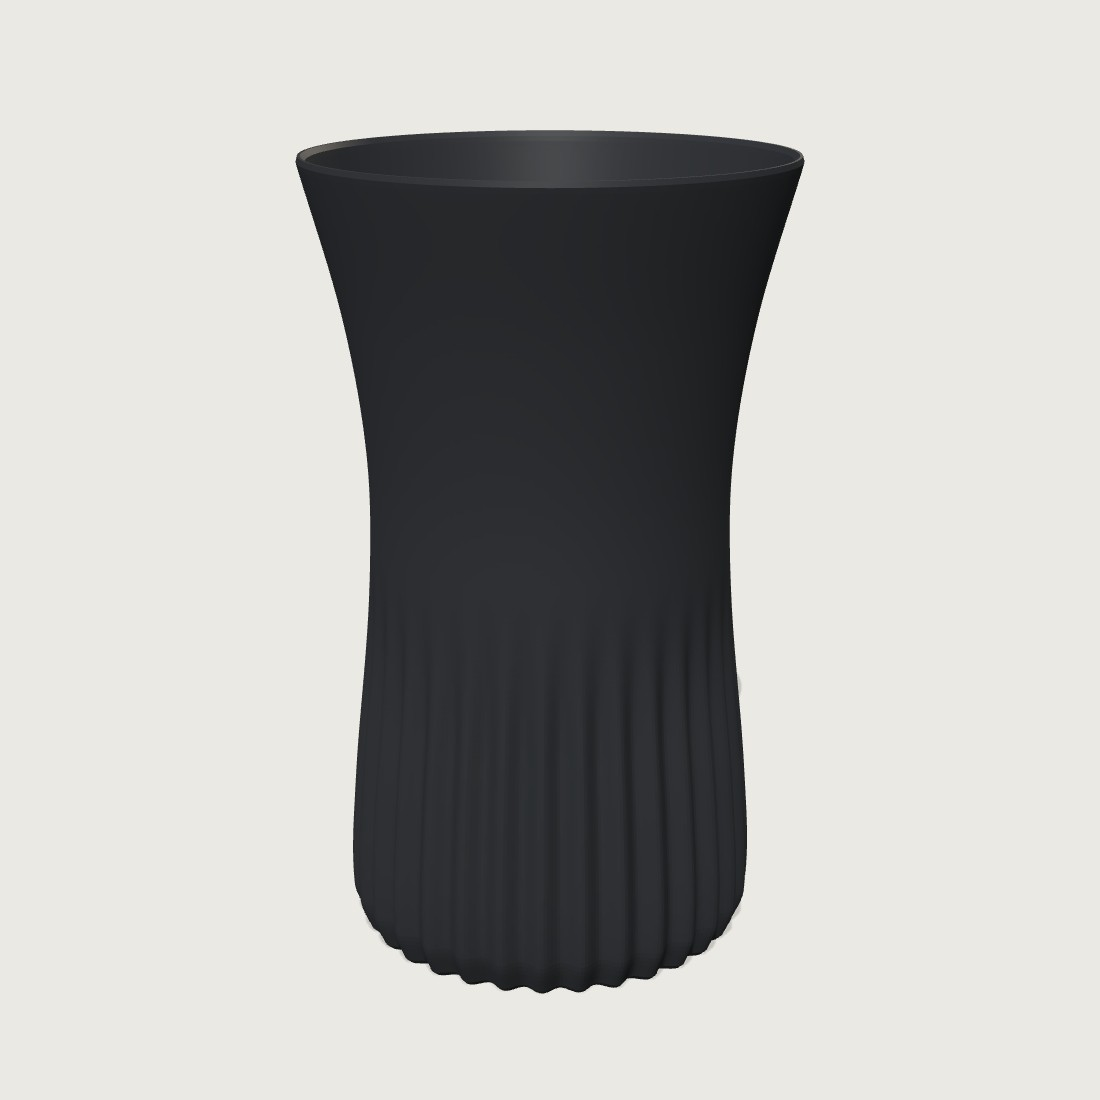
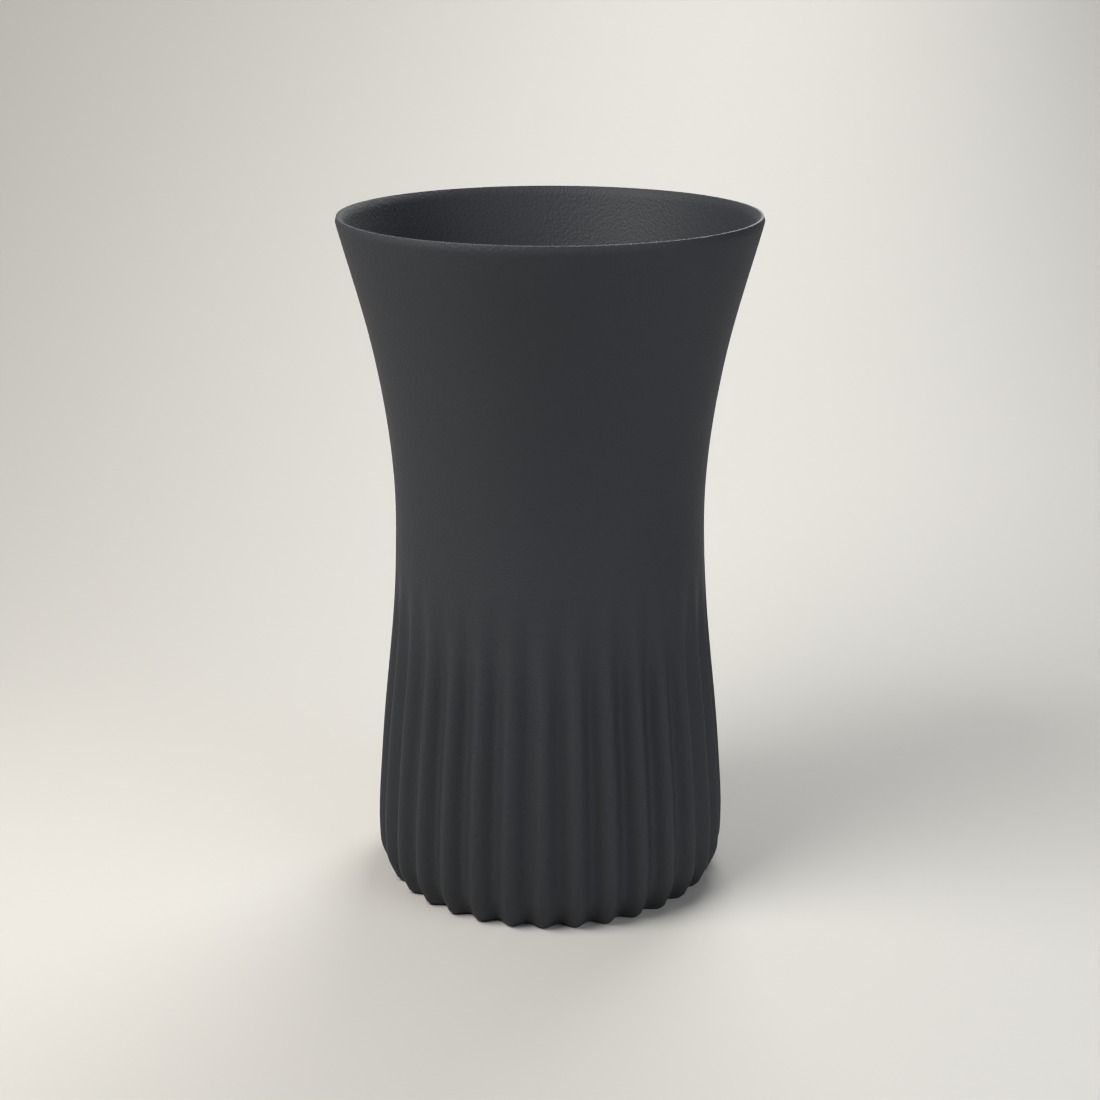
Ürün görselleri: stüdyo kareleri tamam, ortam fotoğrafları sürüyor; animasyon altyapısı
Bütün araçların stüdyo kareleri Blender ile çizildi (litofan lamba hariç).
urun-renderleri.py --animasyon: hazır ayarlar arasında alanlar kare kare
değişir, her kare aynı ev ortamında sabit kamerayla çizilir, <arac>.mp4 olur.
Ürün sayfası: katalogda animasyon işaretli araçta video "Neleri
değiştirebilirsiniz" bölümünde sessiz döngü olarak oynar.

diff --git a/src/app/(shop)/tasarla/[arac]/page.tsx b/src/app/(shop)/tasarla/[arac]/page.tsx
@@ -7,6 +7,7 @@ import {
   aracAdresi,
   aracBul,
   aracGorseli,
+  aracAnimasyonu,
   aracGorselleri,
   aracOzellestirmeAdresi,
 } from "@/lib/tasarim/catalog";
@@ -101,6 +102,7 @@ export default async function TasarimUrunPage({
   const gorseller = aracGorselleri(arac).filter((g) => resolvePublicImage(g.adres));
   const digerleri = TASARIM_ARACLARI.filter((a) => a.id !== arac.id).slice(0, 4);
   const ozellestir = aracOzellestirmeAdresi(arac.id);
+  const animasyon = aracAnimasyonu(arac);
 
   return (
     <div className="pb-28 lg:pb-0">
@@ -210,6 +212,25 @@ export default async function TasarimUrunPage({
               <h2 id="ayarlar-baslik" className="adjy-eyebrow">
                 Neleri değiştirebilirsiniz
               </h2>
+              {animasyon && (
+                // Sessiz, kısa döngü: ayarlar değiştikçe ürünün aldığı biçimler
+                <figure className="adjy-pixel-frame mt-4 overflow-hidden bg-muted/40">
+                  <video
+                    src={animasyon}
+                    poster={gorseller[0]?.adres}
+                    autoPlay
+                    muted
+                    loop
+                    playsInline
+                    preload="metadata"
+                    className="aspect-square w-full object-cover"
+                    aria-label={`${arac.ad}: ayarlar değiştikçe ürünün aldığı biçimler`}
+                  />
+                  <figcaption className="px-4 py-3 text-xs leading-relaxed text-muted-foreground">
+                    Aynı ürün, farklı ayarlarla: biçim, ölçü ve renk değiştikçe ürün böyle görünür.
+                  </figcaption>
+                </figure>
+              )}
               <ul className="mt-4 grid gap-2.5 sm:grid-cols-2">
                 {arac.ayarlar.map((ayar, i) => (
                   <li

diff --git a/src/lib/tasarim/catalog.ts b/src/lib/tasarim/catalog.ts
@@ -77,6 +77,12 @@ export interface TasarimAraci {
   vurgular: { baslik: string; metin: string }[];
   /** Ürün sayfasındaki görsellerin altyazıları — sayısı kadar görsel aranır */
   gorseller: string[];
+  /**
+   * Özelleştirme animasyonu var mı (_gorsel/<id>.mp4): ayarlar değiştikçe
+   * ürünün aldığı biçimler, ev ortamında çizilmiş kısa döngü
+   * (scripts/urun-renderleri.py --animasyon).
+   */
+  animasyon?: boolean;
   ciktilar: TasarimCiktisi[];
   anahtarKelimeler: string[];
   /**
@@ -1122,6 +1128,11 @@ export function aracGorselleri(arac: TasarimAraci): { adres: string; altyazi: st
         : `/tasarim-araclari/_gorsel/${arac.id}-${i + 1}.jpg`,
     altyazi,
   }));
+}
+
+/** Özelleştirme animasyonunun adresi; araçta yoksa null */
+export function aracAnimasyonu(arac: TasarimAraci): string | null {
+  return arac.animasyon ? `/tasarim-araclari/_gorsel/${arac.id}.mp4` : null;
 }
 
 /** Veritabanındaki ürünün adres parçası */

diff --git a/scripts/urun-renderleri.py b/scripts/urun-renderleri.py
@@ -94,6 +94,137 @@ ORTAM = {
 }
 
 
+# Özelleştirme animasyonu (--animasyon): aracın hazır ayarları sırayla dolaşılır;
+# aradaki karelerde sayısal alanlar (boy, çap, dalga sayısı…) adım adım değişir,
+# seçimler (renk, biçim) geçişin ortasında döner. Her kare aynı ev ortamında,
+# sabit kamerayla çizilir ve <arac>.mp4 olarak birleştirilir.
+ANIM = {"gecis": 7, "bekle": 3, "kareHizi": 10, "boy": 640, "ornek": 16}
+if "--anim-deneme" in sys.argv:  # hızlı deneme: az kare, küçük boy
+    ANIM.update({"gecis": 2, "bekle": 1, "boy": 480, "ornek": 12})
+
+# Sayfadaki bütün ayar alanları: { id: [tür, değer, adım] }
+DURUM_JS = r"""() => {
+  const o = {};
+  document.querySelectorAll('input[id], select[id]').forEach((e) => {
+    if (e.type === 'file' || e.type === 'button' || e.type === 'hidden') return;
+    if (e.type === 'checkbox') o[e.id] = ['kutu', e.checked, 0];
+    else if (e.type === 'range' || e.type === 'number') o[e.id] = ['sayi', parseFloat(e.value), parseFloat(e.step) || 1];
+    else o[e.id] = ['secim', e.value, 0];
+  });
+  return o;
+}"""
+
+
+def ara_durum(a, b, t):
+    """İki hazır ayar arası: sayılar adımına oturtularak, seçimler ortada."""
+    t = t * t * (3 - 2 * t)
+    o = {}
+    for k, (tur, va, adim) in a.items():
+        vb = b.get(k, (tur, va, adim))[1]
+        if tur == "sayi" and va == va and vb == vb:  # NaN değilse
+            v = va + (vb - va) * t
+            adim = adim or 1
+            o[k] = round(round(v / adim) * adim, 6)
+        else:
+            o[k] = va if t < 0.5 else vb
+    return o
+
+
+def anim_kareleri(sayfa, arac, tur, tanim):
+    """Döner: her kare için sahne verisi listesi."""
+    kareler = (tanim[1] if tur == "yb" else tanim)[:4]
+    hazir = lambda: sayfa.wait_for_function(
+        f"() => window.{tanim[0]} && window.{tanim[0]}.hazir" if tur == "yb" else "() => window.ADJY && window.ADJY.hazirMi()", timeout=60000)
+    sayfa.goto(ADRES.format(arac=arac), wait_until="networkidle")
+    hazir()
+    sayfa.wait_for_timeout(1200)
+    durumlar = []
+    for kare in kareler:
+        if tur == "yb":
+            _dosya, onayar, alanlar, _y = kare[:4]
+            tikla = kare[4] if len(kare) > 4 else []
+            if onayar:
+                sayfa.evaluate("s => document.querySelector(s).click()", f'[data-hazir="{onayar}"]')
+                sayfa.wait_for_timeout(600)
+            if alanlar:
+                sayfa.evaluate(_k.ALAN_JS, alanlar)
+            for sec in tikla:
+                sayfa.evaluate("s => document.querySelector(s).click()", sec)
+                sayfa.wait_for_timeout(300)
+        else:
+            for adim in kare[1]:
+                if adim[0] == "sec":
+                    sayfa.evaluate("""([s, v]) => { const e = document.querySelector(s); e.value = v;
+                      e.dispatchEvent(new Event('input', { bubbles: true })); e.dispatchEvent(new Event('change', { bubbles: true })); }""", [adim[1], adim[2]])
+                elif adim[0] == "tikla":
+                    sayfa.evaluate("s => document.querySelector(s).click()", adim[1])
+                elif adim[0] == "js":
+                    sayfa.evaluate(adim[1])
+                sayfa.wait_for_timeout(900)
+        sayfa.wait_for_timeout(1500)
+        durumlar.append(sayfa.evaluate(DURUM_JS))
+    n = len(durumlar)
+    dizi = []
+    for i in range(n):
+        a, b = durumlar[i], durumlar[(i + 1) % n]
+        tam = {k: v[1] for k, v in a.items()}
+        dizi += [tam] * ANIM["bekle"]
+        dizi += [ara_durum(a, b, f / (ANIM["gecis"] + 1)) for f in range(1, ANIM["gecis"] + 1)]
+    yavas = arac.startswith("foto-") or tur == "eski"
+    onceki, cikti = None, []
+    for no, durum in enumerate(dizi):
+        degisen = {k: v for k, v in durum.items() if onceki is None or onceki.get(k) != v}
+        if degisen:
+            sayfa.evaluate(_k.ALAN_JS, degisen)
+            ornekDegisti = any(k.endswith("-ornek") for k in degisen)
+            sayfa.wait_for_timeout(2600 if ornekDegisti else 1300 if yavas else 550)
+        onceki = durum
+        veri = sayfa.evaluate(AL_JS)
+        if veri and veri["aglar"]:
+            cikti.append(veri)
+    return cikti
+
+
+def animasyon(sayfa, arac, tur, tanim, hedef: Path, gecici: Path):
+    veriler = anim_kareleri(sayfa, arac, tur, tanim)
+    if len(veriler) < 8:
+        print("ANIMASYON YOK", arac, len(veriler))
+        return
+    ayar = dict(ORTAM.get(arac, {}))
+    ayar.pop("kare", None)
+    # Bütün karelerin birleşik kutusu: kamera ve eşyalar sabit kalır
+    mn = [min(a["kutu"][i] for v in veriler for a in v["aglar"]) for i in range(3)]
+    mx = [max(a["kutu"][i + 3] for v in veriler for a in v["aglar"]) for i in range(3)]
+    klasor = gecici / f"{arac}-anim"
+    isler = []
+    for no, veri in enumerate(veriler):
+        veri.update({"ortam": "masa", "tohum": sum(map(ord, arac)), **ayar, "boy": ANIM["boy"], "ornek": ANIM["ornek"]})
+        veri["bakis"] = veriler[0]["bakis"]
+        # Zemin gibi ayıklanan düzlemler kutuya girmesin diye kutu, yazımdan sonra yeniden hesaplanır
+        yol = sahne_yaz(veri, klasor / f"k{no:03d}", 1.0)
+        isler.append({"sahne": str(yol), "cikti": str(klasor / f"kare_{no:03d}.jpg")})
+    mn = [min(a["kutu"][i] for v in veriler for a in v["aglar"]) for i in range(3)]
+    mx = [max(a["kutu"][i + 3] for v in veriler for a in v["aglar"]) for i in range(3)]
+    for is_ in isler:
+        v = json.loads(Path(is_["sahne"]).read_text(encoding="utf-8"))
+        v["kutu"] = [mn, mx]
+        Path(is_["sahne"]).write_text(json.dumps(v), encoding="utf-8")
+    isYolu = klasor / "isler.json"
+    isYolu.write_text(json.dumps(isler), encoding="utf-8")
+    r = subprocess.run([BLENDER, "-b", "-P", str(KOK / "render" / "studyo_blender.py"), "--", str(isYolu)],
+                       capture_output=True, text=True, encoding="utf-8", errors="replace")
+    hata = [s for s in (r.stdout + r.stderr).splitlines() if s.startswith("HATA")]
+    cizilen = sorted(klasor.glob("kare_*.jpg"))
+    if hata or len(cizilen) != len(isler):
+        print("ANIMASYON EKSİK", arac, len(cizilen), "/", len(isler), hata[:2])
+        return
+    mp4 = hedef / f"{arac}.mp4"
+    f = subprocess.run(["ffmpeg", "-y", "-loglevel", "error", "-framerate", str(ANIM["kareHizi"]), "-i", str(klasor / "kare_%03d.jpg"),
+                        "-c:v", "libx264", "-pix_fmt", "yuv420p", "-crf", "25", "-preset", "slow", "-movflags", "+faststart", "-an", str(mp4)],
+                       capture_output=True, text=True)
+    print("ANIMASYON", arac, len(isler), "kare", mp4.stat().st_size // 1024 if mp4.exists() else 0, "KB", f.stderr[:200])
+
+
 def ilk_adi(arac: str, dosya: str, n: int) -> str:
     """Stüdyo karelerinin ilki sona taşınır: <arac>.jpg ortam fotoğrafına ayrılmıştır."""
     return f"{arac}-{n + 1}.jpg" if dosya == f"{arac}.jpg" else dosya
@@ -261,6 +392,12 @@ def main() -> None:
         hepsi = [(a, "yb", v) for a, v in _k.ARACLAR.items()] + [(a, "eski", v) for a, v in ESKI.items()]
         for arac, tur, tanim in hepsi:
             if yalniz and arac not in yalniz:
+                continue
+            if "--animasyon" in sys.argv:
+                try:
+                    animasyon(sayfa, arac, tur, tanim, hedef, gecici)
+                except Exception as e:
+                    print("HATA", arac, str(e)[:300], flush=True)
                 continue
             try:
                 kareler = tanim[1] if tur == "yb" else tanim

diff --git a/scripts/render/studyo_blender.py b/scripts/render/studyo_blender.py
@@ -316,6 +316,17 @@ def ciz(sahneYolu, cikti):
         ortam.duvar_cevir(veriler, np)
     tum = np.concatenate([v for _, v, _ in veriler])
     mn, mx = Vector(tum.min(axis=0).tolist()), Vector(tum.max(axis=0).tolist())
+    # Animasyon: kamera ve eşyalar kareden kareye oynamasın diye kutu sabit verilir
+    # (bütün karelerin birleşik kutusu, aracın ekseninde, mm)
+    if S.get("kutu"):
+        k = np.array(S["kutu"], dtype=np.float32).reshape(2, 3)
+        kose = np.array([[k[i][0], k[j][1], k[l][2]] for i in (0, 1) for j in (0, 1) for l in (0, 1)], dtype=np.float32) @ Cn.T * OLCEK
+        a, b = kose.min(axis=0), kose.max(axis=0)
+        if ortamAdi == "duvar":  # dik çevrilmiş levha: genişlik x, kalınlık y, yükseklik z; merkez göz hizasında
+            gx, gy, gz = (b[0] - a[0]) / 2, (b[1] - a[1]) / 2, b[2] - a[2]
+            mn, mx = Vector((-gx, -gz - 0.0015, 1.42 - gy)), Vector((gx, -0.0015, 1.42 + gy))
+        else:
+            mn, mx = Vector(a.tolist()), Vector(b.tolist())
     c = (mn + mx) / 2
     R = max(0.02, (mx - mn).length / 2)
     # "havada": sarkıt gibi asılı ürünlerde zemin, model yüksekliğinin bu oranı kadar aşağıda
@@ -328,7 +339,8 @@ def ciz(sahneYolu, cikti):
         uzak, fov = ortam.duvar(S, mn, mx)
     else:
         uzak, fov = studyo(S, sc, mn, mx, c, R, z0, bakis)
-    pikselMm = (2 * uzak * math.tan(fov / 2) / BOY) / OLCEK
+    boy = int(S.get("boy", BOY))
+    pikselMm = (2 * uzak * math.tan(fov / 2) / boy) / OLCEK
 
     # --- malzeme ve nesneler
     matlar = {}
@@ -357,14 +369,14 @@ def ciz(sahneYolu, cikti):
                 break
         except Exception:
             pass
-    cy.samples = ORNEK
+    cy.samples = int(S.get("ornek", ORNEK))
     cy.use_adaptive_sampling = True
     cy.adaptive_threshold = 0.02
     cy.use_denoising = True
     cy.max_bounces = 8
     cy.transparent_max_bounces = 12
     cy.filter_width = 1.3
-    sc.render.resolution_x = sc.render.resolution_y = BOY
+    sc.render.resolution_x = sc.render.resolution_y = boy
     sc.render.resolution_percentage = 100
     sc.render.image_settings.file_format = "JPEG"
     sc.render.image_settings.quality = 92
